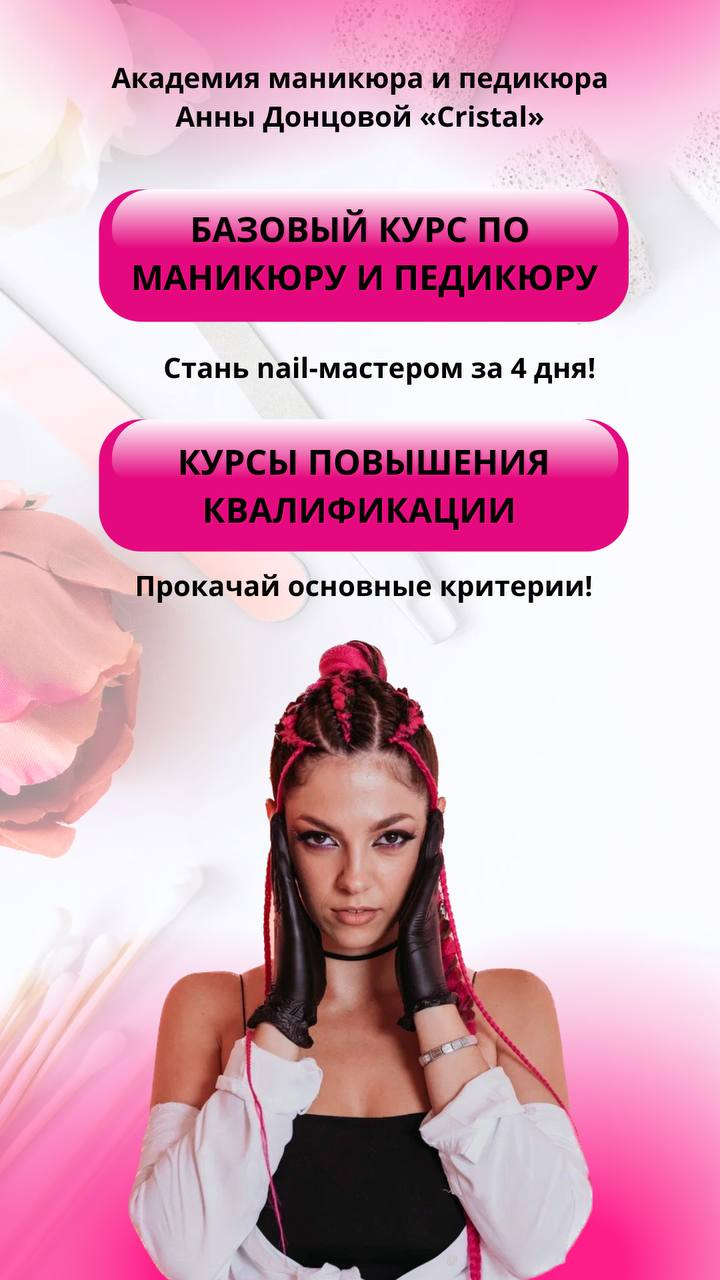
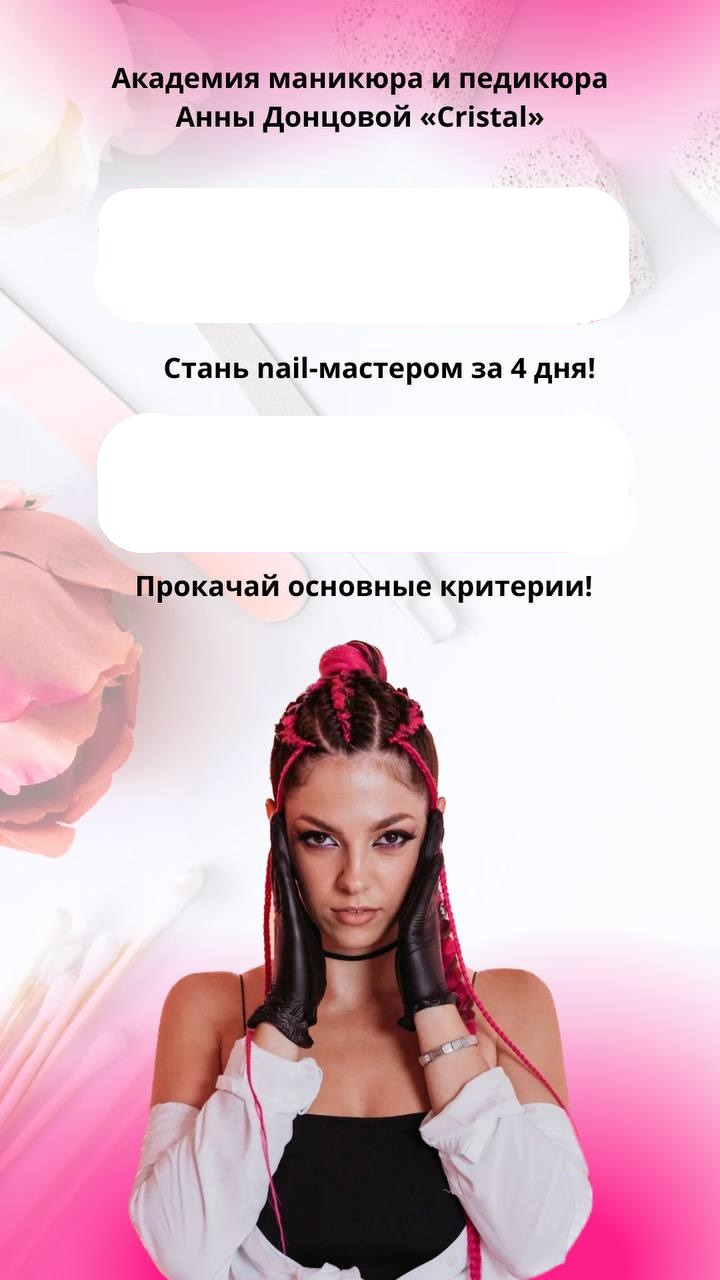
добавил ноль сомнений и курсы

Changed region(s): [[0.1222, 0.3125, 0.8861, 0.4375], [0.1222, 0.125, 0.8861, 0.25]]

diff --git a/index.html b/index.html
@@ -497,7 +497,78 @@ font-weight:700;}
 @media screen and (max-width: 720px) {
 .bann{padding:25.5% 0 0 0;}
 }
+/************** ноль сомнений  **************/
+.null{
+	margin: 0 auto;
+	padding: 683px 0 0 0;/**/
+	max-width: 720px; aspect-ratio:113/160;
+	background-image: url(cris/apr6.jpg);
+	background-position: top center;
+	background-size: 100%;
+	background-repeat: no-repeat;
+	background-attachment: local;
+	text-align: center;
+}
+.nullbtn{
+	margin: auto;
+	cursor: pointer;
+	width:63%; height:35%;
+	border: none;
+	border-radius: calc(38px);
+	background-image: url(cris/apr61.jpg);
+	background-position: top center;
+	background-size: 100%;
+	background-repeat: no-repeat;
+	background-attachment: local;
+}
+@media screen and (max-width: 720px) {
+.null{padding:92% 0 0 0;}
+}
 
+/*-----------------------------------------------------*/
+/************** курсы и прочее  **************/
+.kurs{
+	margin: 0 auto;
+	padding: 188px 0 0 0;/**/
+	max-width: 720px; aspect-ratio:72/128;
+	background-image: url(cris/apr1.jpg);
+	background-position: top center;
+	background-size: 100%;
+	background-repeat: no-repeat;
+	background-attachment: local;
+	text-align: center;
+}
+.kursbtn1{
+	margin: 0 auto 14%;/*88px*/
+	cursor: pointer;
+	width:75%; height:12.5%;
+	border: none;
+	border-radius: calc(38px);
+	background-image: url(cris/apr11.jpg);
+	background-position: top center;
+	background-size: 100%;
+	background-repeat: no-repeat;
+	background-attachment: local;
+}
+.kursbtn2{
+	margin: auto;
+	cursor: pointer;
+	width:75%; height:12.3%;
+	border: none;
+	border-radius: calc(38px);
+	background-image: url(cris/apr12.jpg);
+	background-position: top center;
+	background-size: 100%;
+	background-repeat: no-repeat;
+	background-attachment: local;
+}
+@media screen and (max-width: 720px) {
+.kurs{padding:25% 0 0 0;}
+.kursbtn1{margin: 0 auto 14%;border-radius:0px;}
+.kursbtn2{border-radius:0px;}
+}
+
+/*-----------------------------------------------------*/
 /**********    снежинки     ****************/
 .snowflake {/* customizable snowflake styling */
   color: #fff;
@@ -943,6 +1014,24 @@ onclick="window.location='https://api.whatsapp.com/send?phone=79179658117'"
 
 </section>
 			
+
+<section class="null">
+	<button class="nullbtn"
+	onclick="window.location='https://api.whatsapp.com/send?phone=79179658117'"
+	>
+	</button>
+</section>
+
+<section class="kurs">
+	<button class="kursbtn1"
+	onclick="window.location='https://api.whatsapp.com/send?phone=79179658117'"
+	>
+	</button>
+	<button class="kursbtn2"
+	onclick="window.location='https://api.whatsapp.com/send?phone=79179658117'"
+	>
+	</button>	
+</section>
 
 <section class="slider40">
 	<div class="container slider41">
